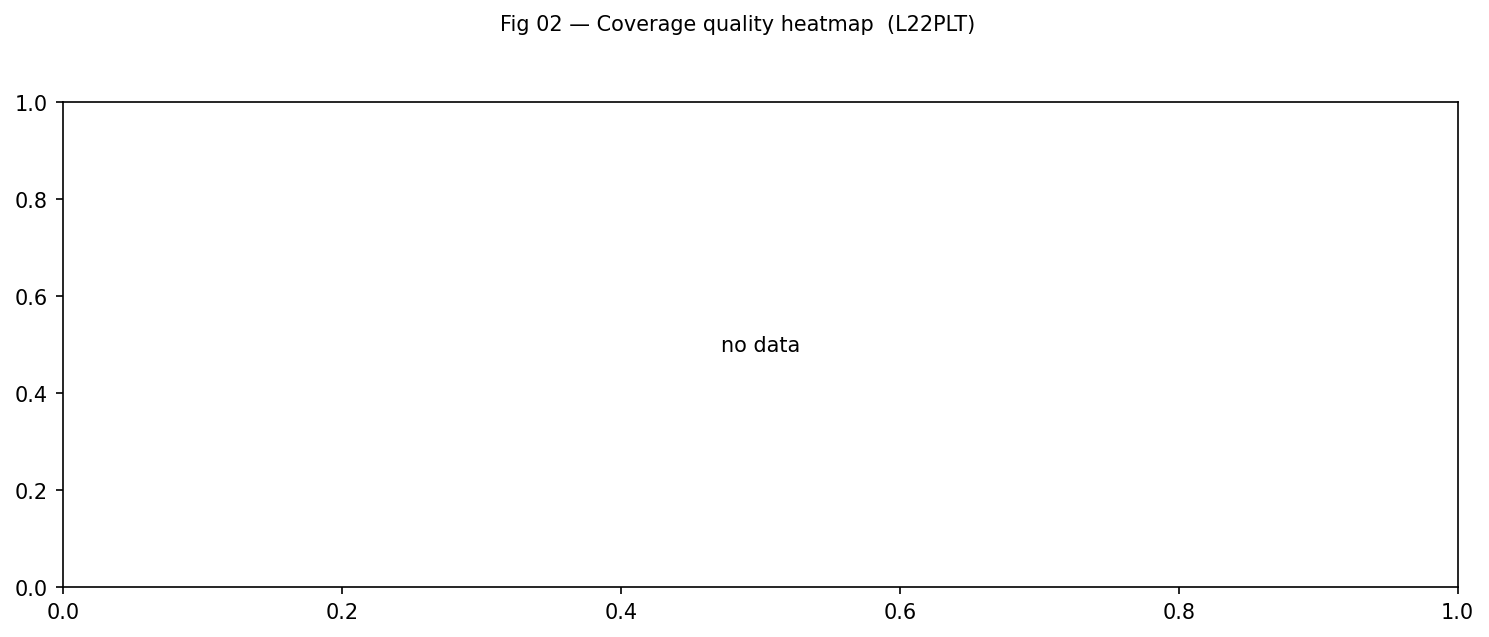
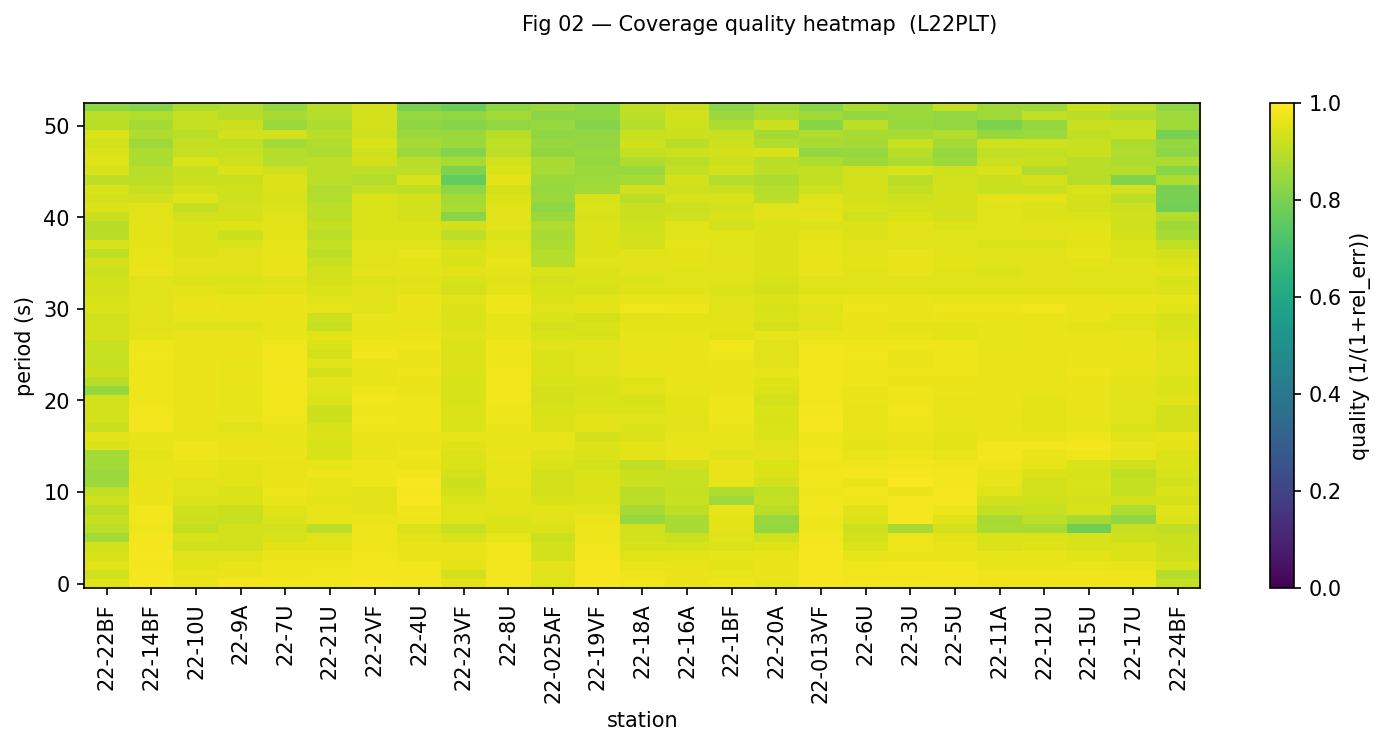
fix frequency.py _get_z_block + update demo (fig02/03/05)
- frequency.py: remove broken local _get_z_block/_get_t_block that
  returned (None,None,None) for every Site; import the correct
  implementations from _core instead — fixes fig02 coverage heatmap
  and fig03 apparent-depth pseudo-section showing "no data"
- demo_emtools.py: replace plot_tipper_hodograms with
  plot_strike_mapsticks for fig05 (WILLY_DATA contains no Hz/tipper
  component); update section 3 comment accordingly
- Regenerate fig02, fig03 with real data; add fig05_strike_mapsticks

diff --git a/examples/demo/demo_emtools.py b/examples/demo/demo_emtools.py
@@ -48,7 +48,6 @@ from pycsamt.emtools.frequency   import (
     plot_coverage_quality_heatmap,
     plot_apparent_depth_psection,
 )
-from pycsamt.emtools.tf          import plot_tipper_hodograms
 from pycsamt.emtools.impedance   import plot_phasor_wheel, plot_determinant_track
 from pycsamt.emtools.tensor      import (
     plot_phase_tensor_psection,
@@ -69,6 +68,7 @@ from pycsamt.emtools.strike         import (
     plot_strike_rose,
     plot_strike_ribbon,
     plot_strike_profile,
+    plot_strike_mapsticks,
 )
 
 DPI = 150
@@ -161,12 +161,15 @@ save(fig, "fig04_rhoa_phi.png")
 # ────────────────────────────────────────────────────────────────────────────
 # Section 3 — Tipper & impedance diagnostics
 # ────────────────────────────────────────────────────────────────────────────
-print("\n── Section 3 — Tipper & impedance diagnostics ──")
+print("\n── Section 3 — Impedance diagnostics & station map ──")
 
+# Note: WILLY_DATA EDI files contain no Hz/tipper component, so
+# plot_tipper_hodograms is replaced with plot_strike_mapsticks which
+# places per-station strike sticks on a lon/lat map.
 save(
-    plot_tipper_hodograms(L22, figsize=(12, 5)),
-    "fig05_tipper_hodograms.png",
-    "Fig 05 — Tipper hodograms  (L22PLT)",
+    plot_strike_mapsticks(L22, method="consensus", figsize=(6, 6)),
+    "fig05_strike_mapsticks.png",
+    "Fig 05 — Geoelectric strike map-sticks  (L22PLT)",
 )
 
 save(

diff --git a/pycsamt/emtools/frequency.py b/pycsamt/emtools/frequency.py
@@ -8,6 +8,8 @@ from ._core import (
     ensure_sites,
     _apply_each,
     _iter_items,
+    _get_z_block,
+    _get_t_block,
 )
 
 # re-use package editors when it saves code
@@ -66,28 +68,6 @@ def _interp_complex(
     return out.squeeze()
 
 
-def _get_z_block(ed: Any):
-    Z = getattr(ed, "Z", None) or getattr(ed, "z", None)
-    if Z is None:
-        return None, None, None
-    z = getattr(Z, "z", None)
-    # ze = getattr(Z, "z_err", None)
-    fr = getattr(Z, "freq", None)
-    if not isinstance(z, np.ndarray) or not isinstance(fr, np.ndarray):
-        return None, None, None
-    return Z, z, fr
-
-
-def _get_t_block(ed: Any):
-    T = getattr(ed, "Tipper", None) or getattr(ed, "tipper", None)
-    if T is None:
-        return None, None, None
-    t = getattr(T, "tipper", None)
-    # te = getattr(T, "tipper_err", None)
-    fr = getattr(T, "freq", None)
-    if not isinstance(t, np.ndarray) or not isinstance(fr, np.ndarray):
-        return None, None, None
-    return T, t, fr
 
 
 def _set_block_freq(obj: Any, fr: np.ndarray) -> None:
